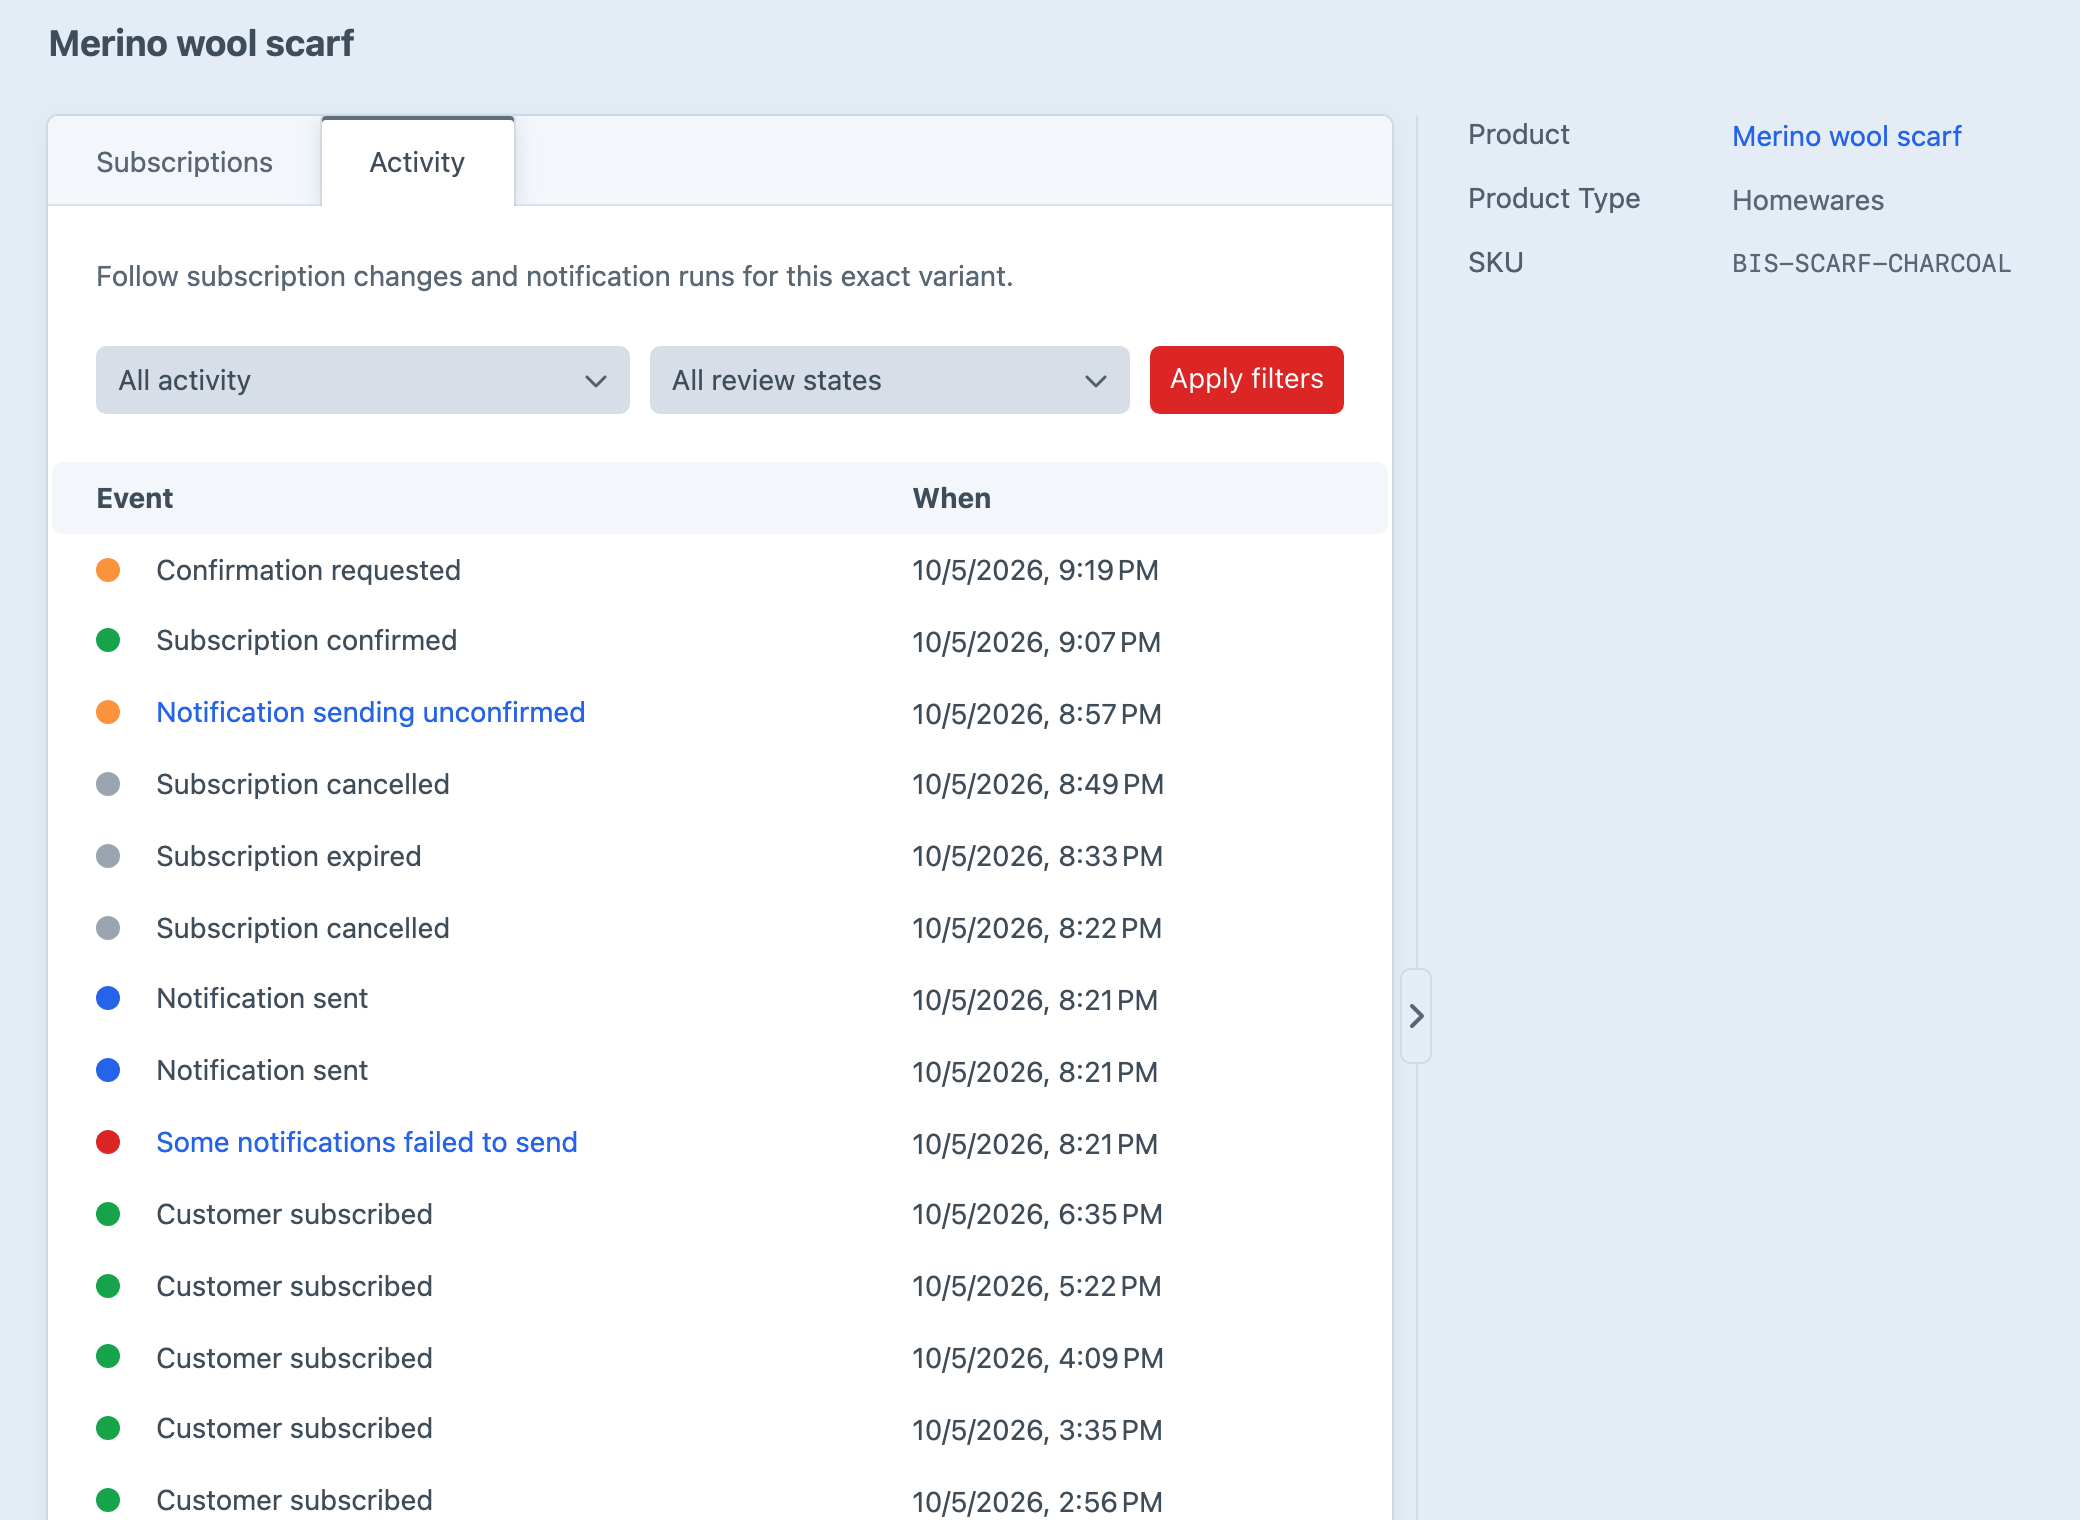
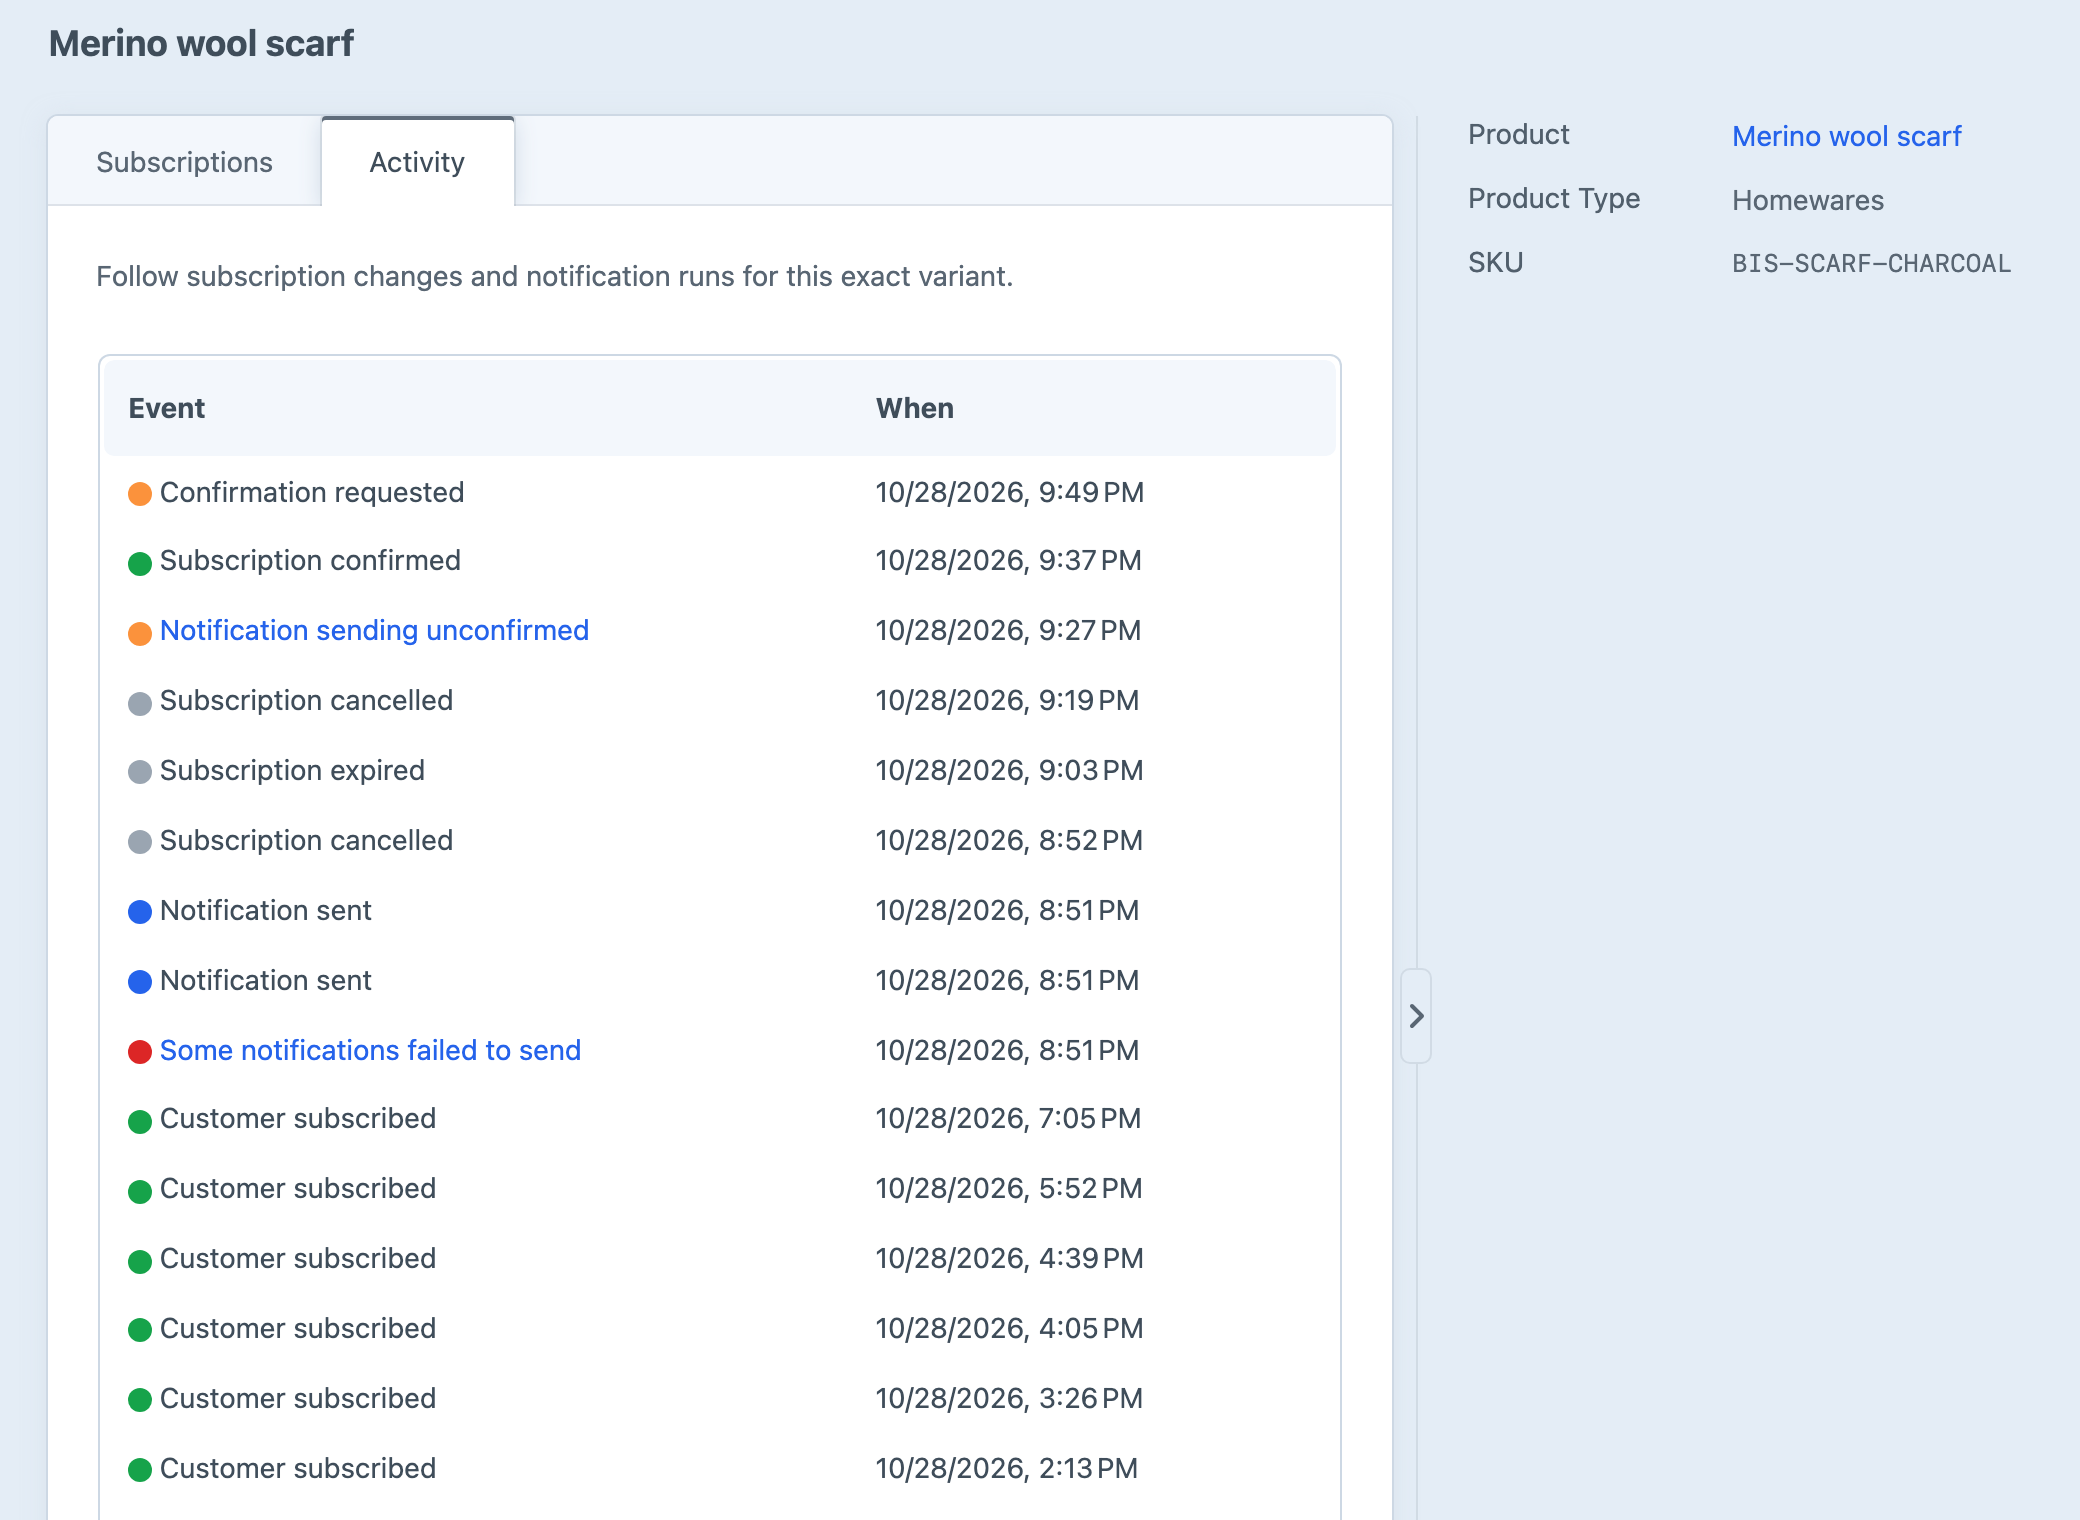
docs

Changed region(s): [[0.0312, 0.3092, 0.2812, 1.0], [0.4375, 0.3092, 0.5625, 1.0], [0.0312, 0.2164, 0.6562, 0.2783]]

diff --git a/CHANGELOG.md b/CHANGELOG.md
@@ -3,16 +3,18 @@
 ## Unreleased
 
 ### Added
-- Added an Overview of current demand and recent activity, plus Products for filtering by product type, searching variants, SKUs or subscriber emails, and reviewing subscription and notification history.
-- Added optional email verification, signed one-click cancellation, and tracked states for pending, active, notified, cancelled and expired requests.
-- Added stock-aware notification selection, with the oldest waiting customers selected according to available inventory and a configurable subscribers-per-unit ratio.
-- Added notification history with per-recipient delivery attempts, configurable queue batches, retries for confirmed failures, and sent, failed, cancelled and unconfirmed outcomes.
-- Added editable Craft System Messages for confirmation, verification and availability emails, while retaining custom Twig template overrides.
+- Added an Overview showing demand by product variant, recent subscription activity and notifications needing review.
+- Added optional email verification, signed cancellation links and subscription states for pending verification, active, notified, cancelled and expired requests.
+- Added a stock-matched notification policy that selects the oldest waiting customers according to available inventory and a configurable subscribers-per-unit ratio.
+- Added notification history with per-recipient delivery attempts, error details and sent, failed, cancelled or unconfirmed outcomes. Confirmed failures can be retried automatically; unconfirmed sends are retained for review.
+- Added configurable subscription expiry and completed-history retention.
+- Added editable Craft System Messages for confirmation, verification and availability emails, with support for localised subjects and message bodies.
 - Added the `craft craft-commerce-back-in-stock/reconcile` command to recover missed inventory changes, expire old requests and remove completed history.
 - Added developer events for subscription creation and state changes, recipient selection, outgoing subscription messages, and completed delivery attempts.
 
 ### Changed
-- Changed stock updates to queue availability checks after Commerce commits inventory changes and to check stock again before each notification is sent.
+- Replaced Logs with Products, with product-type filtering, product/variant, SKU and subscriber-email search, and Subscriptions and Activity tabs for each variant.
+- Changed notification delivery to use configurable batches, queue availability checks after Commerce commits inventory changes and recheck stock before sending each notification.
 - Changed fresh installations to match notification recipients to available stock by default; upgraded installations retain their existing notify-everyone behaviour until the setting is changed.
 - Changed successful JSON registration responses to include the subscription `state`, while preserving the existing response fields.
 

diff --git a/marketing/features.md b/marketing/features.md
@@ -29,7 +29,7 @@ Start with the oldest requests based on the quantity available, increase the num
 <!-- feature-grid -->
 - :icon[mail-check] **Verified interest** Optional double opt-in keeps only confirmed recipients active.
 - :icon[layers-subtract] **Controlled groups** Process larger lists in configurable groups and retry email attempts that fail before Craft’s mailer accepts them, up to a chosen limit.
-- :icon[message-cog] **Editable email** Use Craft System Messages or take over the full markup with Twig.
+- :icon[message-cog] **Editable email** Edit message content through Craft System Messages, or use custom Twig layouts for confirmation and availability emails.
 - :icon[link-off] **One-click cancellation** Signed links let recipients leave without an account.
 - :icon[history] **Notification history** Review who was selected and whether Craft accepted each message, or whether it failed, was cancelled, or remained unconfirmed.
 - :icon[refresh] **Scheduled checks** Catch stock changes missed by an import, expire old requests, and remove completed history when required.

diff --git a/README.md b/README.md
@@ -10,7 +10,7 @@ Add an unstyled notification form to any product page for guests or signed-in cu
 - Match the number of notifications to available stock, or notify everyone waiting.
 - Keep one request for each email address and variant, with optional email verification.
 - Process larger lists in configurable groups and retry email attempts that fail before Craft’s mailer accepts them, up to a chosen limit.
-- Edit confirmation, verification, and availability emails through Craft System Messages, with full Twig template overrides when needed.
+- Edit confirmation, verification, and availability emails through Craft System Messages, with full Twig template overrides for confirmation and availability emails.
 - See how many customers are waiting in Overview, then use Products to find a variant or subscriber email and review what happened over time.
 - Run a scheduled check to catch missed stock changes, expire old requests, and remove completed history when required.
 

diff --git a/marketing/plugin-store.md b/marketing/plugin-store.md
@@ -7,6 +7,6 @@ Add an unstyled notification form to any product page for guests or signed-in cu
 - Match the number of notifications to available stock, or notify everyone waiting.
 - Keep one request for each email address and variant, with optional email verification.
 - Process larger lists in configurable groups and retry email attempts that fail before Craft’s mailer accepts them, up to a chosen limit.
-- Edit confirmation, verification, and availability emails through Craft System Messages, with full Twig template overrides when needed.
+- Edit confirmation, verification, and availability emails through Craft System Messages, with full Twig template overrides for confirmation and availability emails.
 - See how many customers are waiting in Overview, then use Products to find a variant or subscriber email and review what happened over time.
 - Run a scheduled check to catch missed stock changes, expire old requests, and remove completed history when required.
